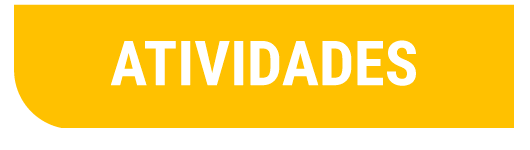
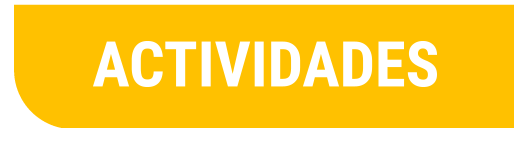
update

Changed region(s): [[0.1509, 0.2667, 0.8453, 0.5867]]

diff --git a/modulo-4/creditos.html b/modulo-4/creditos.html
@@ -11,7 +11,7 @@
     <link href="css/theme/theme_color_setup.css" rel="stylesheet" />
     <link href="css/theme/theme_style.css" rel="stylesheet" />
 
-  
+
     <link href="css/user/user_color_setup.css" rel="stylesheet" />
     <link href="css/user/user_objects_style.css" rel="stylesheet" />
     <link href="css/user/user_style.css" rel="stylesheet" />
@@ -29,7 +29,7 @@
     <link rel="apple-touch-icon" sizes="144x144" href="assets/images/identity/favicon/apple-icon-144x144.png">
     <link rel="apple-touch-icon" sizes="152x152" href="assets/images/identity/favicon/apple-icon-152x152.png">
     <link rel="apple-touch-icon" sizes="180x180" href="assets/images/identity/favicon/apple-icon-180x180.png">
-    <link rel="icon" type="image/png" sizes="192x192"  href="assets/images/identity/favicon/android-icon-192x192.png">
+    <link rel="icon" type="image/png" sizes="192x192" href="assets/images/identity/favicon/android-icon-192x192.png">
     <link rel="icon" type="image/png" sizes="32x32" href="assets/images/identity/favicon/favicon-32x32.png">
     <link rel="icon" type="image/png" sizes="96x96" href="assets/images/identity/favicon/favicon-96x96.png">
     <link rel="icon" type="image/png" sizes="16x16" href="assets/images/identity/favicon/favicon-16x16.png">
@@ -40,18 +40,19 @@
 
     <style>
         body {
-                margin-top: 0 !important;
-            }
-        .banner-top{
+            margin-top: 0 !important;
+        }
+
+        .banner-top {
             height: 450px !important;
         }
-       
+
         .modulo_1 h1 {
-            background:unset;
-            text-transform:unset;
+            background: unset;
+            text-transform: unset;
             font-size: 25px;
             margin-bottom: 15px;
-            margin-top:10px;
+            margin-top: 10px;
         }
 
         .modulo_1 h5 {
@@ -59,13 +60,27 @@
             margin-bottom: 10px;
             color: var(--THEME_FONT_COLOR);
         }
-  
 
-        .modulo_1 h1, .modulo_2 h1, .modulo_3 h1, .modulo_4 h1 {   
+
+        .modulo_1 h1,
+        .modulo_2 h1,
+        .modulo_3 h1,
+        .modulo_4 h1 {
             padding-bottom: 0;
         }
 
-        .modulo_1 p, .modulo_1 ul, .modulo_1 ol, .modulo_2 p, .modulo_2 ul, .modulo_2 ol, .modulo_3 p, .modulo_3 ul, .modulo_3 ol, .modulo_4 p, .modulo_4 ul, .modulo_4 ol {
+        .modulo_1 p,
+        .modulo_1 ul,
+        .modulo_1 ol,
+        .modulo_2 p,
+        .modulo_2 ul,
+        .modulo_2 ol,
+        .modulo_3 p,
+        .modulo_3 ul,
+        .modulo_3 ol,
+        .modulo_4 p,
+        .modulo_4 ul,
+        .modulo_4 ol {
             margin-bottom: 10px;
             margin-top: 0px;
         }
@@ -74,37 +89,32 @@
             body {
                 margin-top: 0 !important;
             }
-            section .banner-top{
+
+            section .banner-top {
                 height: 250px;
             }
         }
-    
-       
     </style>
-    <!-- ./ FAVICON -->  
+    <!-- ./ FAVICON -->
 
 
     <title>SENASP - EaD Curso - Créditos</title>
 </head>
 
 
-  <body class="modulo_1">
+<body class="modulo_1">
 
-    <section 
-        class=
-        '
+    <section class='
         container-fluid banner-top
-        ' 
-        style=
-        "
+        ' style="
             background: url(assets/creditos/banner.jpg); 
             -webkit-background-size: cover;
             -moz-background-size: cover;
             -o-background-size: cover;
             background-size: cover;             
-        ">    
+        ">
 
-        
+
     </section>
 
     <!-- ************************************************************************ -->
@@ -114,33 +124,33 @@
         <div class="container mt-5">
             <div class="row">
                 <div class="col- mx-auto">
-                    <h1 class="text-center">PRESIDÊNCIA DA REPÚBLICA</h1>
-                    <h1 class="text-center">MINISTÉRIO DA JUSTIÇA E SEGURANÇA PÚBLICA </h1>
-                    <h1 class="text-center">Secretaria Nacional de Segurança Pública</h1>
-                    <h1 class="text-center">Diretoria de Ensino e Pesquisa</h1>
-                    <h1 class="text-center">Coordenação Geral de Ensino</h1>
-                    <h1 class="text-center">Núcleo Pedagógico</h1>
-                    <h1 class="text-center">Coordenação de Ensino a Distância</h1>
+                    <h1 class="text-center">PRESIDENCIA DE LA REPÚBLICA</h1>
+                    <h1 class="text-center">MINISTERIO DE JUSTICIA Y SEGURIDAD PÚBLICA</h1>
+                    <h1 class="text-center">Secretaría Nacional de Seguridad Pública </h1>
+                    <h1 class="text-center">Dirección General de Enseñanza e Investigación</h1>
+                    <h1 class="text-center">Coordinación Docente</h1>
+                    <h1 class="text-center">Núcleo pedagógico</h1>
+                    <h1 class="text-center">Coordinación de enseñanza a distancia</h1>
                 </div>
             </div>
 
-            
-                    <div class="row mt-3">
-                        <div class="col-lg-4">
-                            <h5>Reformulador</h5>
-                            <p>Francisco das Chagas Soares de Araújo</p>
-                        </div>
-                        <div class="col-lg-4">
-                            <h5>Revisão de Conteúdo</h5>
-                            <p>Rita de Cássia Oliveira da Silveira</p>
-                            <p>Juliana de Angels Carvalho Drachenberg</p>
-                        </div>
-                        <div class="col-lg-4">                           
-                            <h5>Revisão Pedagógica</h5>
-                            <p>Ardmon dos Santos Barbosa</p>
-                        </div>
-                    </div>
-                
+
+            <div class="row mt-3">
+                <div class="col-lg-4">
+                    <h5>Reformulador</h5>
+                    <p>Francisco das Chagas Soares de Araújo</p>
+                </div>
+                <div class="col-lg-4">
+                    <h5>Revisión de contenido</h5>
+                    <p>Rita de Cássia Oliveira da Silveira</p>
+                    <p>Juliana de Angels Carvalho Drachenberg</p>
+                </div>
+                <div class="col-lg-4">
+                    <h5>Revisión pedagógica</h5>
+                    <p>Ardmon dos Santos Barbosa</p>
+                </div>
+            </div>
+
 
 
 
@@ -152,89 +162,99 @@
 
     <section>
 
-            <div class="container mt-5">
-                <div class="row">
-                    <div class="col- mx-auto">
-                        <h1 class="text-center">UNIVERSIDADE FEDERAL DE SANTA CATARINA</h1>
-                        <h1 class="text-center">SECRETARIA DE EDUCAÇÃO A DISTÂNCIA</h1>
-                        <h1 class="text-center">labSEAD</h1>
-                    </div>
+        <div class="container mt-5">
+            <div class="row">
+                <div class="col- mx-auto">
+                    <h1 class="text-center">UNIVERSIDAD FEDERAL DE SANTA CATARINA</h1>
+                    <h1 class="text-center">SECRETARÍA DE EDUCACIÓN A DISTANCIA</h1>
+                    <h1 class="text-center">labSEAD</h1>
                 </div>
-    
-                
-                        <div class="row mt-3">
-                            <div class="col-lg-4">
-                                <h5>Comitê Gestor </h5>
-                                <p>Eleonora Milano Falcão Vieira</p>
-                                <p>Luciano Patrício Souza de Castro</p>
-                               
-
-                                <h5>Financeiro</h5>
-                                <p>Fernando Machado Wolf</p>
-                             
-    
-                                <h5>Consultoria Ténica EaD</h5>
-                                <p>Giovana Schuelter</p>
-
-                                <h5>Coordenação de Produção</h5>
-                                <p>Francielli Schuelter</p>
-
-                                <h5>Coordenação de AVEA</h5>
-                                <p>Andreia Mara Fiala</p>
-                              
-    
-                            </div>
-                            <div class="col-lg-4">
-                                    
-                                  
-    
-                                    <h5>Design Instrucional</h5>
-                                    <p>Cíntia Costa Macedo (supervisão)</p>
-                                    <p>Carine Biscaro</p>
-                                    <p>Clarissa Venturieri </p>
-                                    <p>Danrley Maurício Vieira</p>
-                                    <p>Dirce de Rossi Garcia Rafaelli</p>
-                                    <p>Marielly Agatha Machado</p>
-    
-                                    <h5>Design Gráfico</h5>
-                                    <p>Sonia Trois (supervisão)</p>
-                                    <p>Aline Lima Ramalho</p>
-                                    <p>Sofia Zluhan de Amorim</p>
-                                    <p>Victor Liborio Barbosa</p>
-
-                                
-                            </div>
-                            <div class="col-lg-4">                                    
-    
-                                    <h5>Linguagem e Memória</h5>
-                                    <p>Cleusa Iracema Pereira Raimundo (supervisão)</p>
-                                    <p>Graziele Nack</p>
-                                    <p>Victor Rocha Freire Silva</p>
-                                   
-                                    <h5>Programação</h5>
-                                    <p>Salésio Eduardo Assi (supervisão)</p>                                    
-                                    <p>Jonas Batista</p>
-                                    <p>Marco Aurélio Ludwig Moraes</p>
-                                    <p>Renan Pinho Assi</p>
-                                    
-    
-                                    <h5>Audiovisual</h5>
-                                    <p>Rafael Poletto Dutra (supervisão)</p>
-                                    <p>Luiz Felipe Moreira Silva Oliveira</p>                                    
-                                    <p>Rodrigo Humaita Witte</p>
-                            </div>
-                        </div>
-                    
-    
-    
-    
-    
             </div>
-    
-        </section>
+
+
+            <div class="row mt-3">
+                <div class="col-lg-4">
+                    <h5>Comité Directivo</h5>
+                    <p>Eleonora Milano Falcão Vieira</p>
+                    <p>Luciano Patrício Souza de Castro</p>
+
+
+                    <h5>Financiero</h5>
+                    <p>Fernando Machado Wolf</p>
+
+
+                    <h5>Consultoría técnica de EaD</h5>
+                    <p>Giovana Schuelter</p>
+
+                    <h5>Coordinación de producción</h5>
+                    <p>Francielli Schuelter</p>
+
+                    <h5>Coordinación de AVEA</h5>
+                    <p>Andreia Mara Fiala</p>
+
+
+                </div>
+                <div class="col-lg-4">
+
+
+
+                    <h5>Diseño Instruccional</h5>
+                    <p>Carine Biscaro</p>
+                    <p>Cíntia Costa Macedo</p>
+                    <p>Clarissa Venturieri </p>
+                    <p>Danrley Maurício Vieira</p>
+                    <p>Dirce de Rossi Garcia Rafaelli</p>
+                    <p>Marielly Agatha Machado</p>
+
+                    <h5>Diseño Gráfico</h5>
+                    <p>Aline Lima Ramalho</p>
+                    <p>Sofia Zluhan de Amorim</p>
+                    <p>Sonia Trois</p>
+                    <p>Taylizy Kamila Martim</p>
+                    <p>Victor Liborio Barbosa</p>
+
+
+
+                </div>
+                <div class="col-lg-4">
+
+
+                    <h5>Lenguaje y memoria</h5>
+                    <p>Cleusa Iracema Pereira Raimundo</p>
+                    <p>Graziele Nack</p>
+                    <p>Victor Rocha Freire Silva</p>
+
+                    <h5>Traducción</h5>
+                    <p>Cristhian Fernando Rondon Mora</p>
+                    <p>Paula Balbis Garcia</p>
+
+
+
+                    <h5>Programación</h5>
+                    <p>Jonas Batista</p>
+                    <p>Marco Aurélio Ludwig Moraes</p>
+                    <p>Salésio Eduardo Assi</p>
+                    <p>Renan Pinho Assi</p>
+                    <p>Thiago Assi</p>
+
+
+                    <h5>Audiovisual</h5>
+                    <p>Luiz Felipe Moreira Silva Oliveira</p>
+                    <p>Rafael Poletto Dutra</p>
+                    <p>Rodrigo Humaita Witte</p>
+                </div>
+            </div>
+
+
+
+
+
+        </div>
+
+    </section>
     <!-- ./ CREDITOS -->
     <!-- ************************************************************************ -->
-    
+
 
 
     <script src="lib/jquery/jquery-3.4.1.min.js"></script>
@@ -242,7 +262,6 @@
     <script src="lib/bootstrap/bootstrap.min.js"></script>
     <script src="lib/bootstrap/bootstrap_starter.js"></script>
     <script src="lib/jquery/jquery.easing.min.js"></script>
-  
 
 
 
@@ -251,8 +270,8 @@
 
 
 
-  </body>
+
+</body>
 
 
 </html>
-
